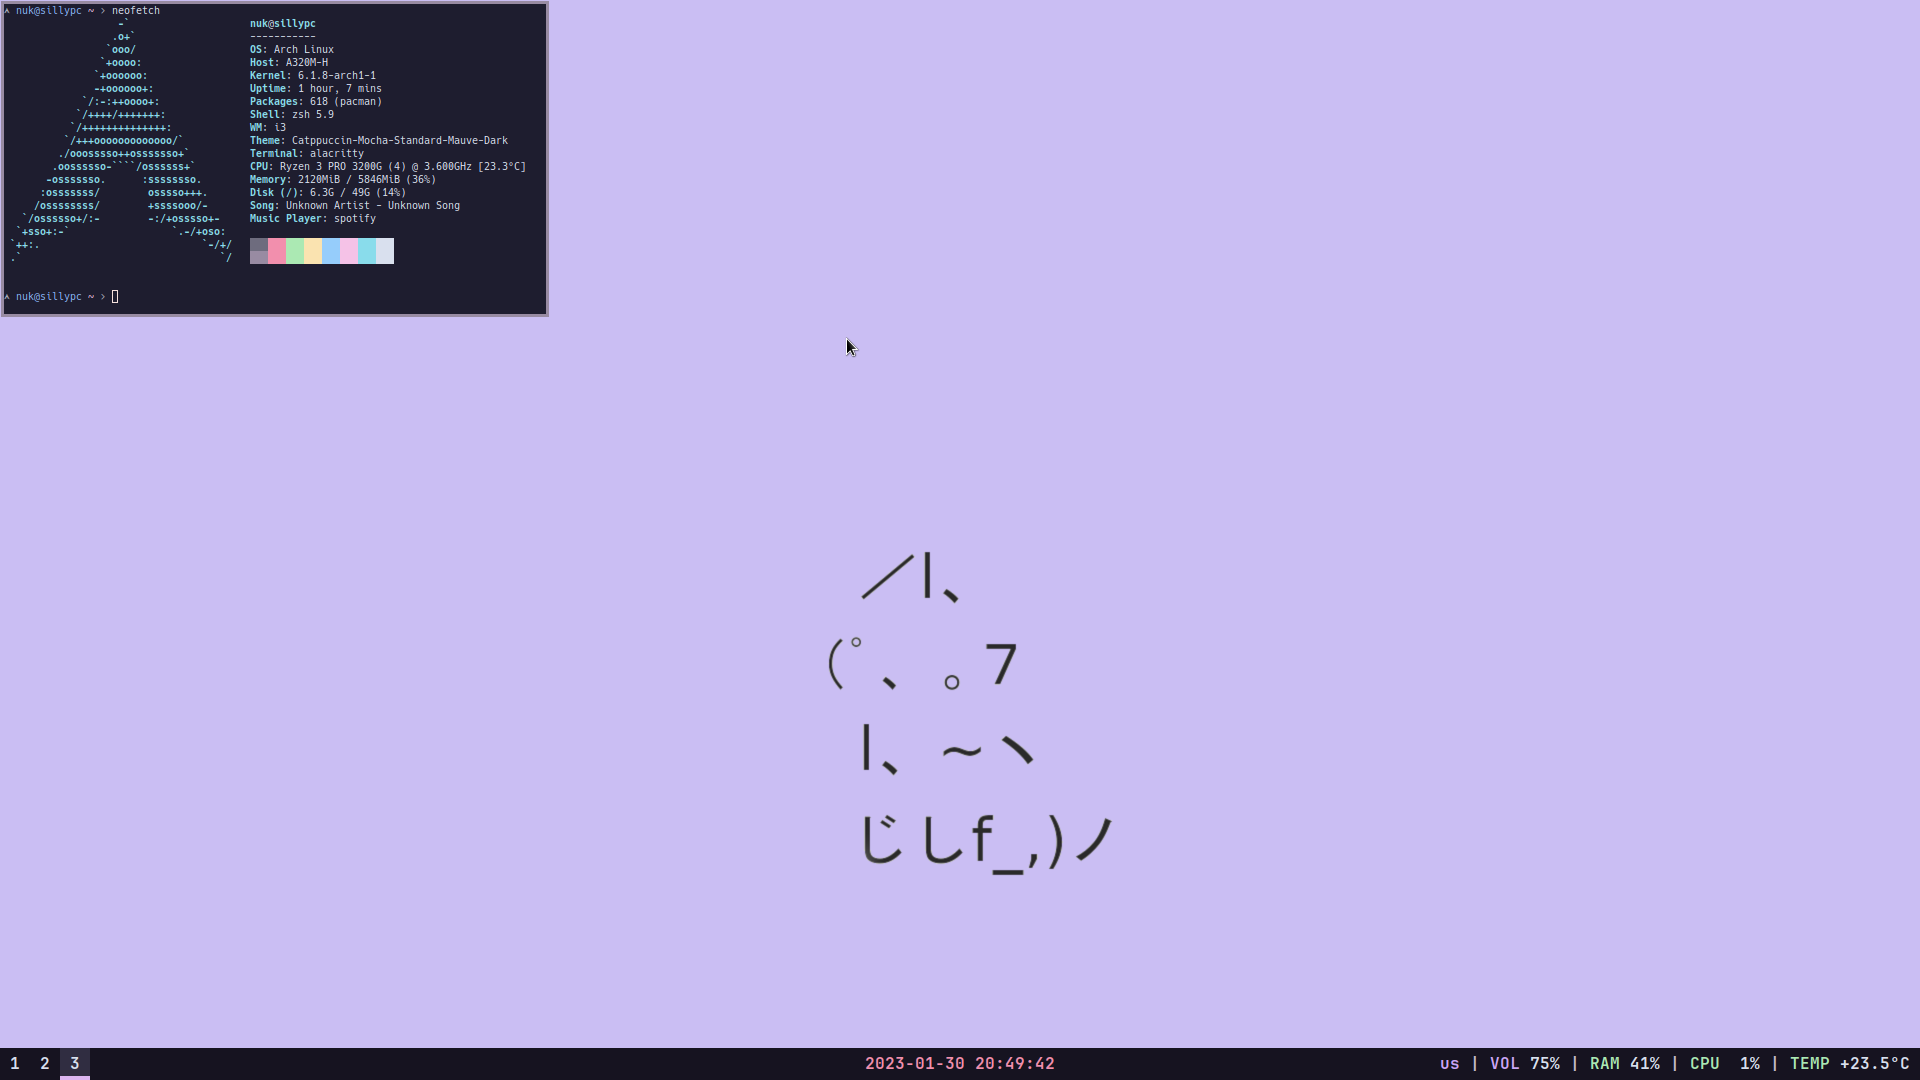
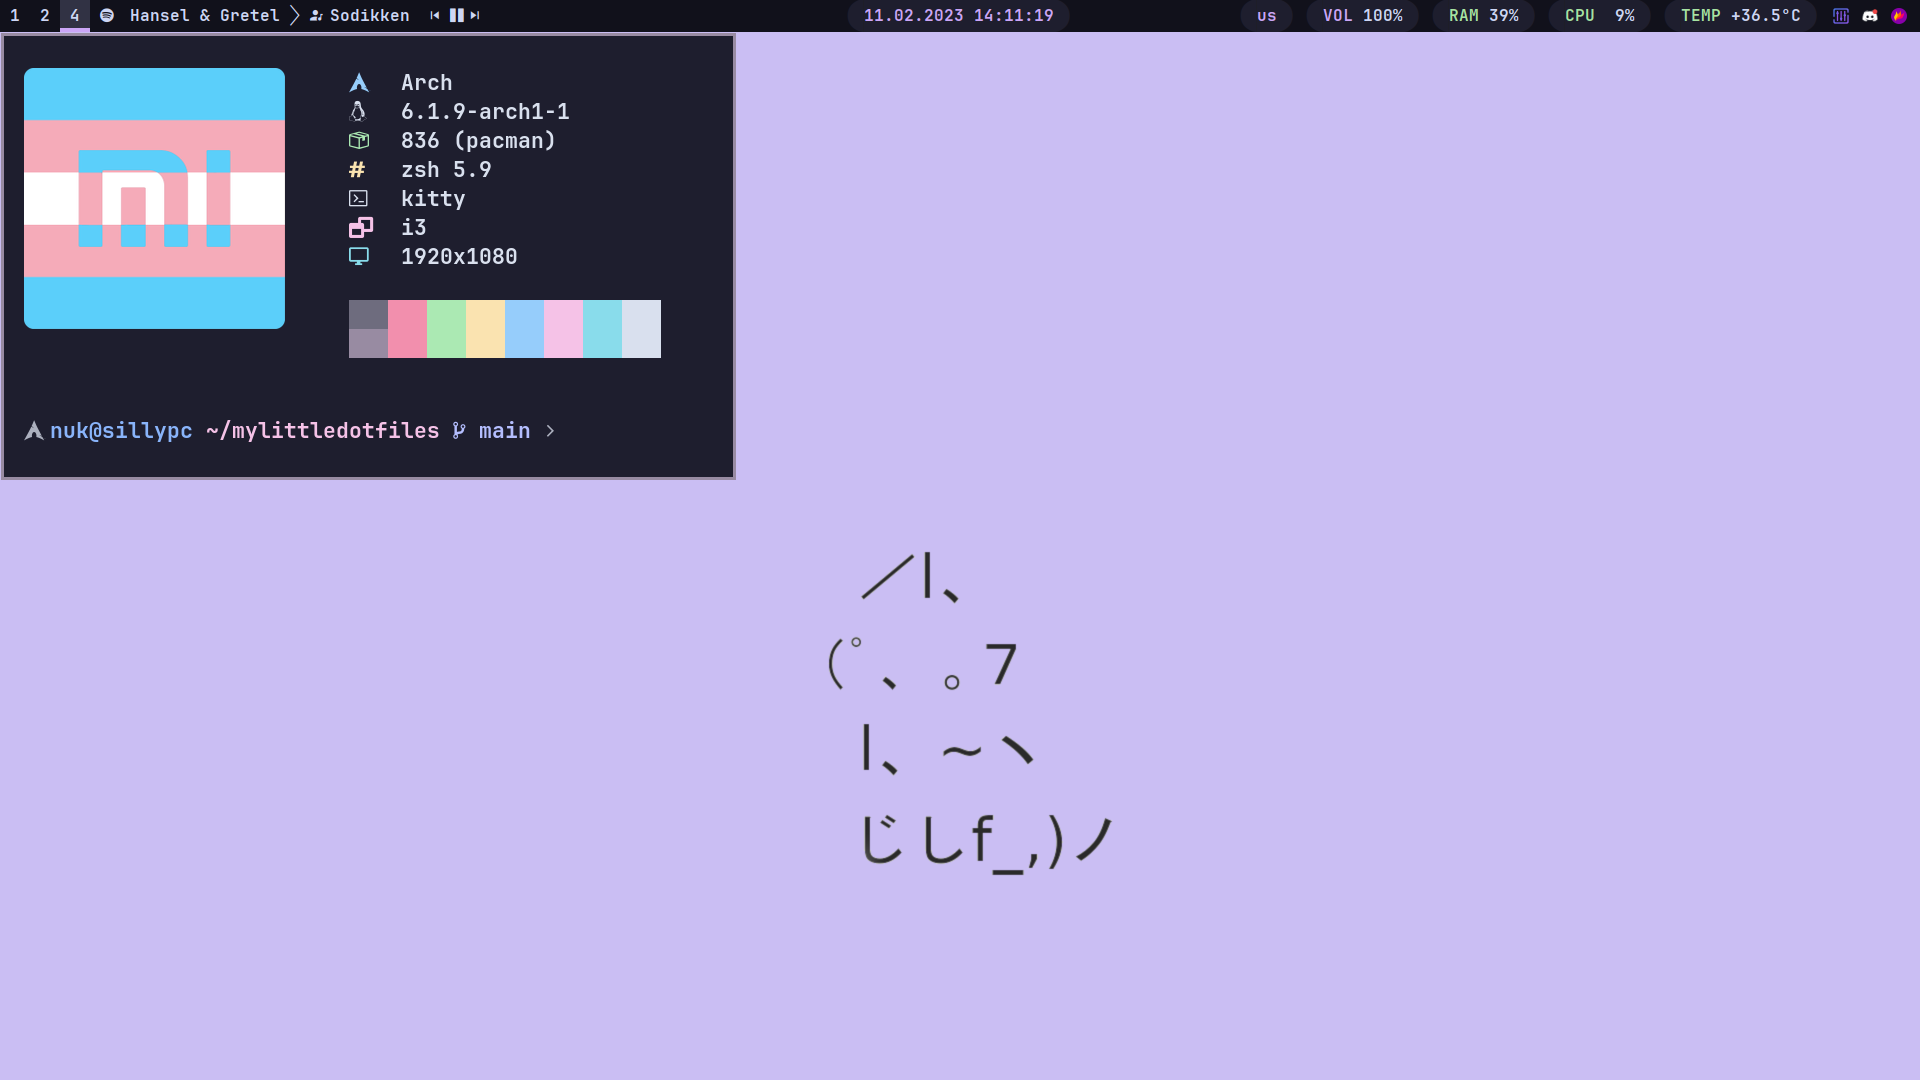
new screenies

Changed region(s): [[0.0, 0.0, 1.0, 0.4583], [0.0, 0.9472, 1.0, 1.0]]

diff --git a/README.md b/README.md
@@ -3,7 +3,7 @@ This config is based on [ejvi's dotfiles](https://github.com/ejvi/dotfiles), exc
 
 - OS: arch linux
 - Shell: zsh
-- Terminal: alacritty
+- Terminal: kitty
 - Launcher: rofi
 - Bar: polybar
 - Font: jetbrains mono nerd font
@@ -34,6 +34,9 @@ This config is based on [ejvi's dotfiles](https://github.com/ejvi/dotfiles), exc
 <p align="center">
 	<img src="2.png"/>
 </p>
+<p align="center">
+	<img src="3.png"/>
+</p>
 
 # ToDo
 Important:
@@ -42,4 +45,4 @@ Important:
 - add power menu to rofi
 
 Extra:
-- make polybar more prettier
+- ~~make polybar more prettier~~
